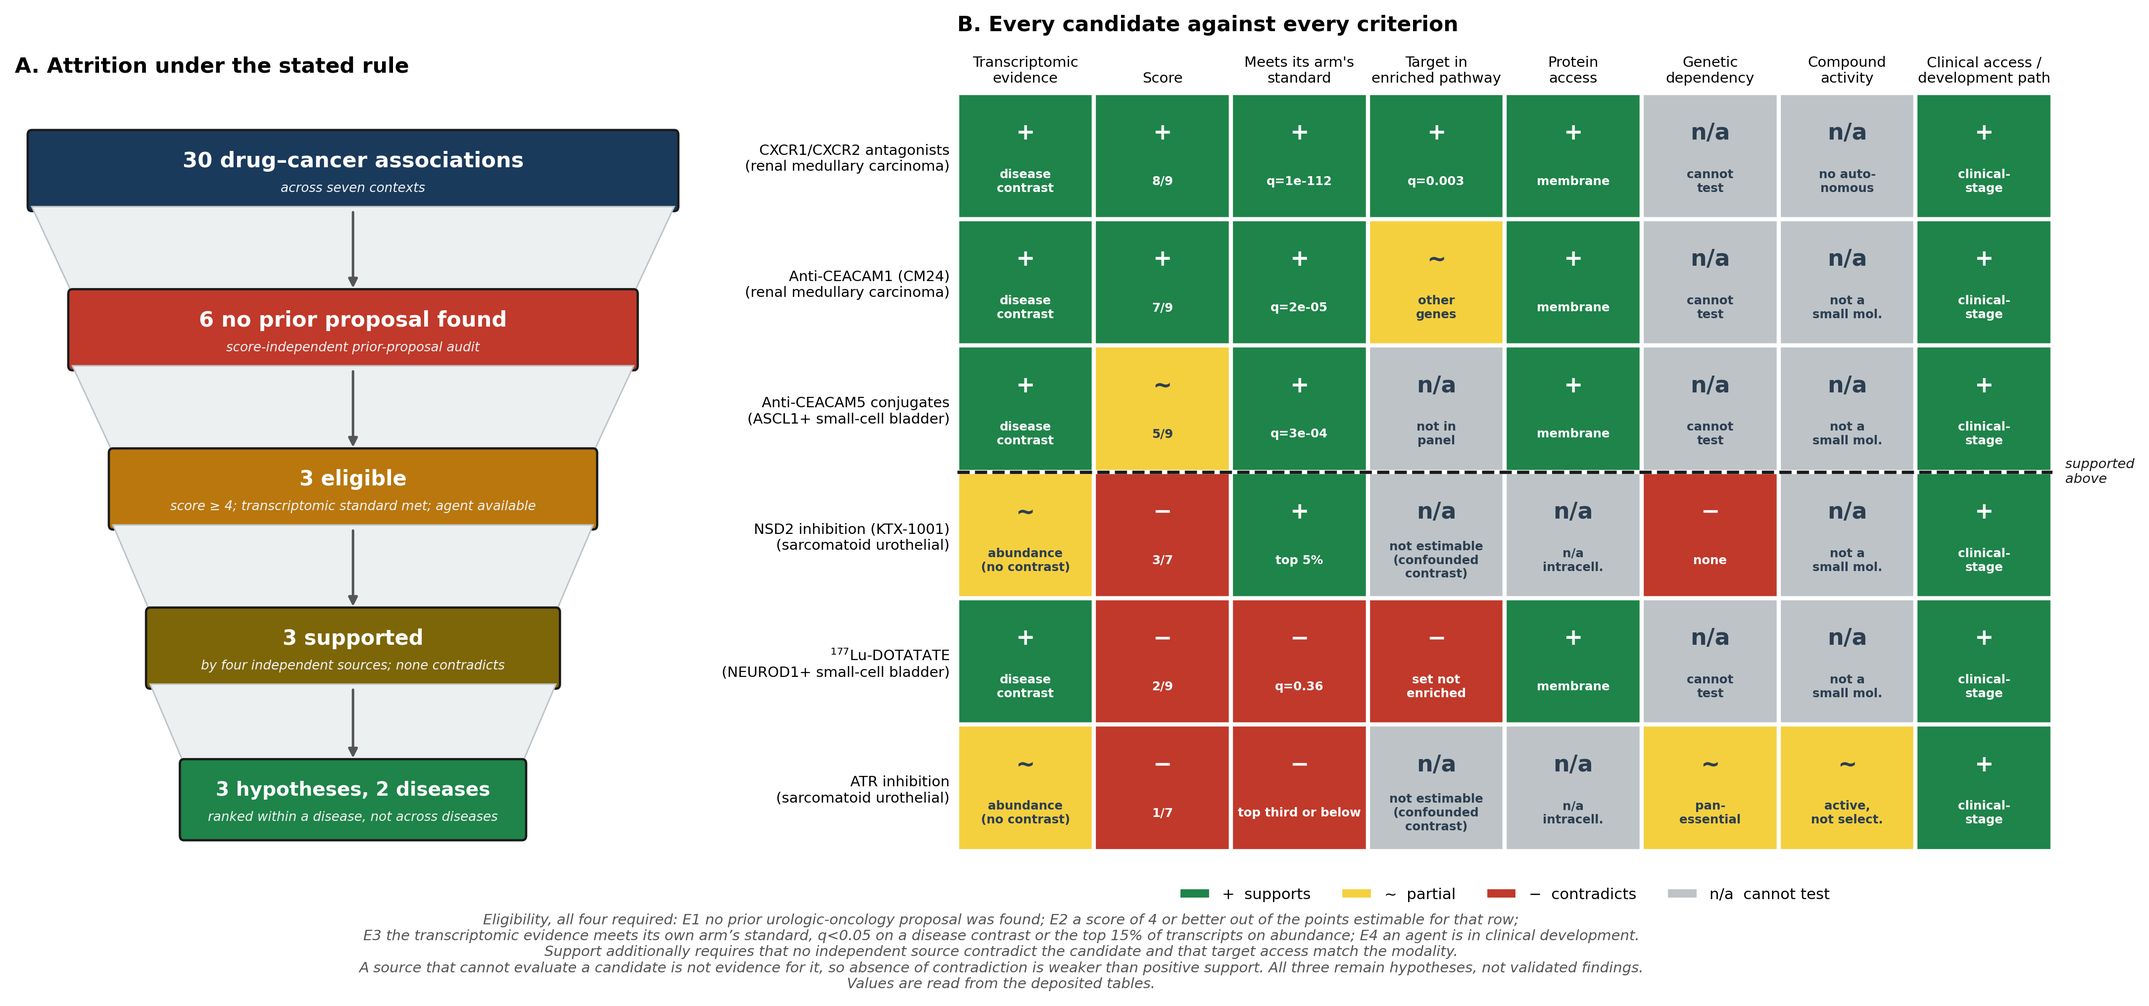
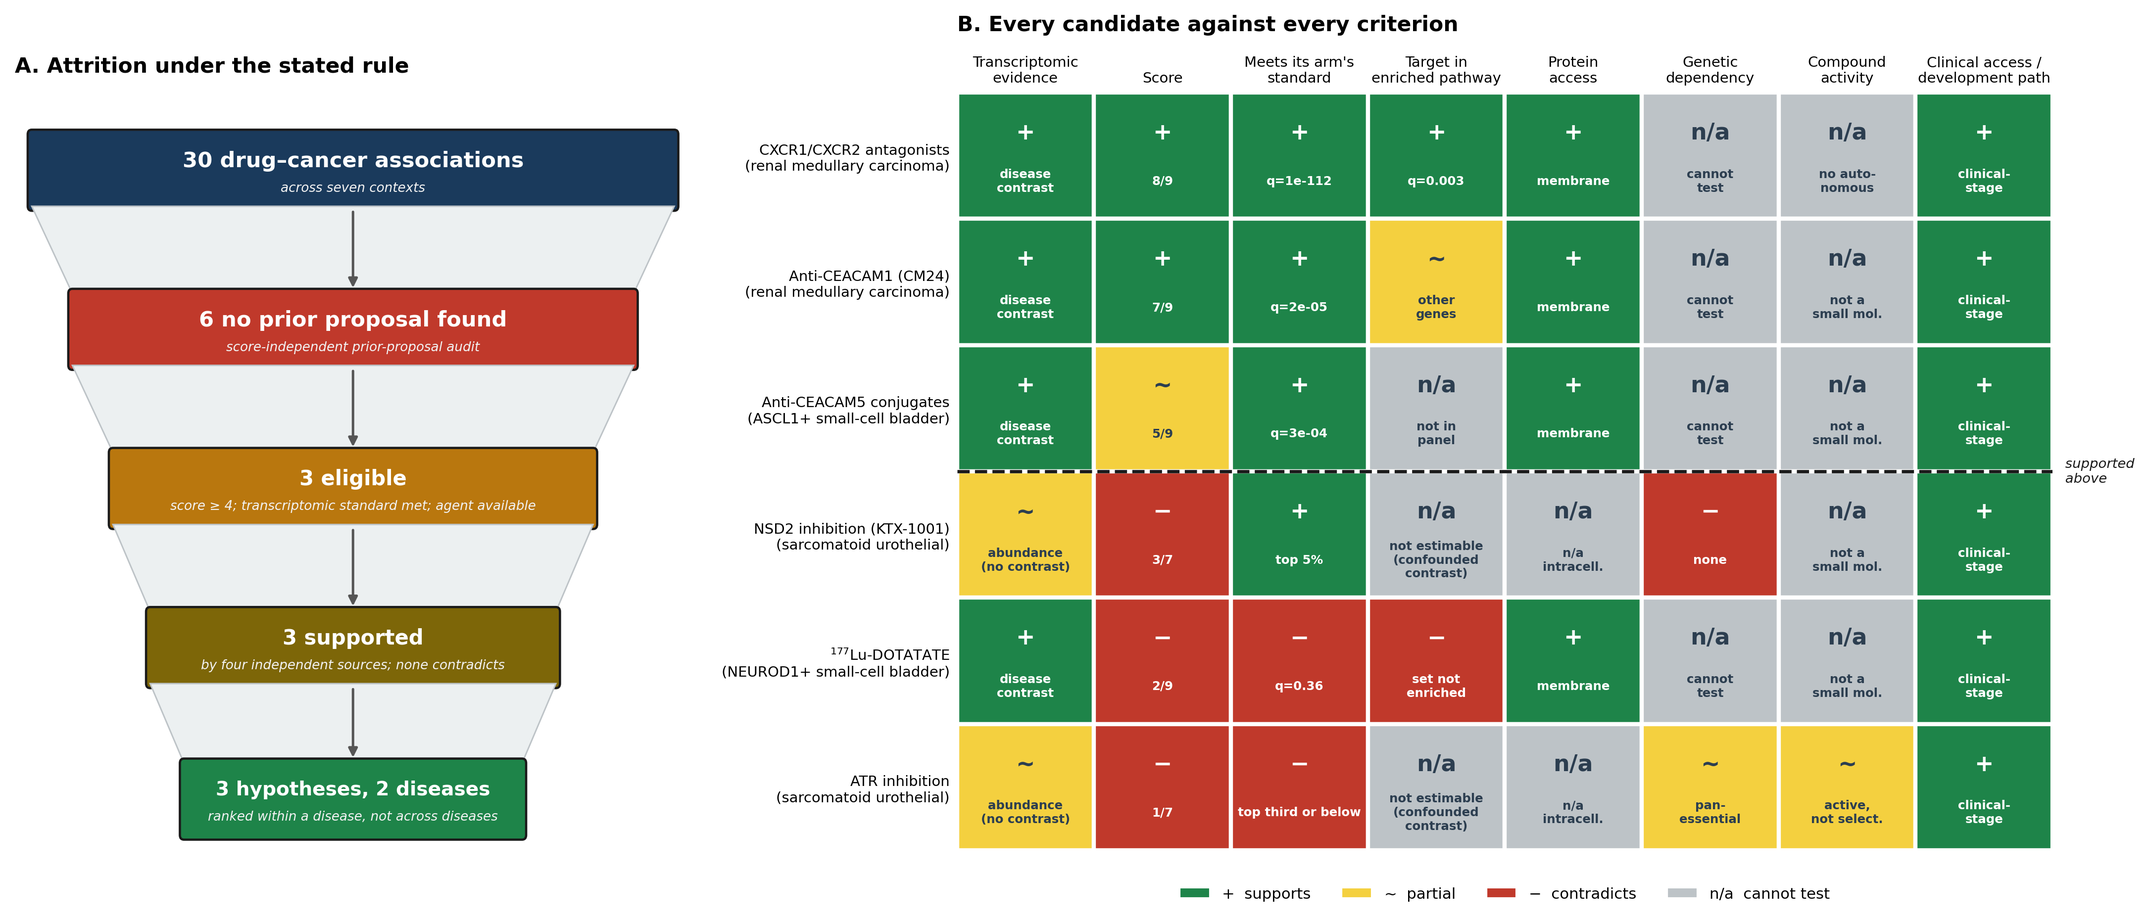
Trim the Discussion; move figure footers into captions; fix Figure 1 jargon
Removed at the author's request:
- the Results section on what the approach could not find. Its DLL3 limitation
  survives as one sentence in the Discussion, which now carries reference 54 so
  the reference list stays fully cited.
- the duplicated cross-disease ranking sentence from the Conclusions; the point
  is still made in Results and the Abstract.

Simplified:
- the refit paragraph, six sentences to two. It compared the results with an
  earlier version of the analysis the reader has never seen; the methodological
  point is kept, the before-and-after narrative is not.
- the design-features and calibration paragraphs combined, 200 words to 114.
- the scoring paragraph, 169 words to 96.
- "any druggable axis absent from it is invisible however strong its expression
  signal" rewritten as "a drug target that none of those sets contains could
  never be nominated, no matter how strongly its gene was expressed".

Added:
- how the positive controls were chosen: by the authors on clinical grounds, as
  aggressive urologic malignancies whose priorities are already documented.
- a limitation stating that TCGA covers the three positive controls but none of
  the four rare cancers, so their alteration frequencies come from smaller
  published series and are less precisely estimated.

Figures:
- Figure 1 still carried "Genomic / context-anchor" and "Score-independent
  PubMed prior-proposal audit", jargon the text had already dropped. Its caption
[…]

diff --git a/code/pipeline/48_build_manuscript_v29.py b/code/pipeline/48_build_manuscript_v29.py
@@ -253,12 +253,13 @@ P('We therefore asked whether public molecular data could be interrogated '
   'engineered. The rule that reduces candidates to a shortlist was written '
   'before it was applied, so every exclusion is attributable to a stated '
   'criterion.')
-P('Three better-studied cancers are included deliberately as positive controls: '
-  'neuroendocrine prostate cancer, muscle-invasive bladder cancer and '
-  'clear cell renal cell carcinoma. Their treatment priorities are already '
-  'documented, so whether the pipeline returns those priorities tells us '
-  'how much weight to give its output in the four rare cancers, where '
-  'nothing is documented to check it against.')
+P('Three better-studied cancers are included deliberately as positive '
+  'controls: neuroendocrine prostate cancer, muscle-invasive bladder cancer '
+  'and clear cell renal cell carcinoma. These were chosen by the authors on '
+  'clinical grounds, as aggressive urologic malignancies whose therapeutic '
+  'priorities are already well studied and documented. Whether the pipeline '
+  'returns those priorities indicates how much weight to give its output in '
+  'the four rare cancers, where nothing is documented to check it against.')
 P(f"What is new here is not any single drug-cancer pair. "
   f"Of the {F['n_associations']} associations reported here, "
   f"{F['n_previously_proposed']} were proposed by other groups first, and "
@@ -630,8 +631,8 @@ P(f"We rank these three within a disease, not between diseases. Two are in "
   f"small-cell bladder cancer and competes with neither. To rank across "
   f"diseases we would have to separate them on something, and the only thing "
   f"available is whether the target happens to appear in one of our eighteen "
-  f"gene sets. What the Approach Could Not Find shows that this reflects which drug classes we chose "
-  f"to include, not which biology matters, so we do not use it that way.")
+  f"gene sets, which reflects which drug classes we chose to include rather "
+  f"than which biology matters, so we do not use it that way.")
 P(f"Within renal medullary carcinoma we would carry CXCR1/CXCR2 blockade "
   f"forward first. It scores {lead['total']}/9. Its chemokine ligands are "
   f"elevated in both patient-derived lines, its target sits in a pathway that "
@@ -663,27 +664,6 @@ P(f"One qualification applies to the renal medullary lead. The dependency and "
   f"settle this one is CXCR1/CXCR2 blockade in an immunocompetent model with an "
   f"intact myeloid compartment, and it remains to be done.")
 
-H('What the Approach Could Not Find', 11.5, 10, level=2)
-P('Applied consistently, the drug-class-first rule that fixed the eighteen gene '
-  'sets exposes one material omission. Delta-like ligand 3 is the canonical '
-  'ASCL1-lineage neuroendocrine surface antigen and the target of tarlatamab, '
-  'a bispecific T-cell engager granted accelerated approval in 2024 and '
-  'traditional approval in 2025 for extensive-stage small-cell lung cancer. '
-  'No pre-specified set in our panel contains it, so no DLL3 '
-  'hypothesis could have been generated for any context, irrespective of the '
-  'data.')
-P('Tested post hoc, DLL3 is elevated in the ASCL1-positive subtype '
-  '(log₂ fold change +1.61) but does not reach significance after '
-  'correction (q = 0.30), and had the Notch pathway been among the pre-specified '
-  'sets it would have been nominally enriched only. DLL3-directed therapy in '
-  'genitourinary small-cell carcinoma has already been proposed in the urologic '
-  'literature (Liao 2024 [54]), so under this study’s standard DLL3 is a '
-  'previously proposed priority the panel failed to recover: a false negative '
-  'of the framework rather than a missed discovery. It is reported here and '
-  'excluded from Table 1, the pre-specified output. The binding constraint is '
-  'the panel’s coverage of druggable biology, not the scoring rules and '
-  'not the data.')
-
 print('results 3.4-3.6 written')
 
 # =====================================================================
@@ -696,59 +676,38 @@ P('In this study, we show that public molecular data can be used to prioritize '
   'to power dedicated biomarker-matched trials in these cancers are not, and '
   'may never be, available, and the associations in Table 1 were assembled '
   'without them.')
-P(f"Refitting the primary data with models matched to how each dataset was "
-  f"built changed the results. Eight associations "
-  f"changed, and two candidates carried forward by the earlier analysis were "
-  f"no longer supported: the somatostatin receptor 2 row, which had been the "
-  f"most clinically developed candidate in the table, and the ATR row. Neither "
-  f"failed because of new data. Both failed because the original per-gene "
-  f"tests ignored replicate structure and batch. An analysis that reused the "
-  f"deposited summary statistics would have carried both forward, and the same "
-  f"risk applies to any public-data prioritization that does not refit what it "
-  f"reuses.")
-P(f"Three design features of the deposited data bound what can be concluded, "
-  f"and none was visible in the summary tables the earlier analysis relied on. "
-  f"The confounding in the sarcomatoid series is the clearest case: "
-  f"{dsn['sarc_chips_sarc_only']} chips carry sarcomatoid samples only and "
-  f"{dsn['sarc_chips_uc_only']} carry conventional samples only, none both, so "
-  f"a model including chip is not estimable and those five rows are unscored. "
-  f"The clear cell renal series "
-  f"contains {dsn['ccrcc_samples']} tumors and no normal tissue, so those rows "
-  f"are scored on absolute expression rather than a disease contrast, and the "
-  f"metastatic contrast the series does support yields "
-  f"{dsn['ccrcc_q05_genes']} gene at q < 0.05. The hereditary "
-  f"leiomyomatosis series, used previously as though it spoke to clear cell "
-  f"disease, is a different disease, reported here as adjacent-disease "
-  f"mechanistic context only.")
-P('The recovery of eighteen previously-proposed priorities is calibration, not '
-  'independent validation: prior knowledge entered the pathway panel, the drug '
-  'curation, the literature dimension and the choice of representative agent, so '
-  'the framework and the literature are not independent. What it establishes '
-  'is that a pipeline blind to the prior-proposal classifications during '
-  'scoring recovers established priorities in well-characterized disease. That '
-  'is a positive control, not a measurement of sensitivity or precision.')
-P(f"The scoring dimensions are partially overlapping, and the composite should "
-  f"be read as a way of ordering candidates rather than as a measurement. "
-  f"The transcriptomic "
-  f"and pathway dimensions share an input, and in several rows the genomic "
-  f"score reflects an alteration that defines the disease rather than one in "
-  f"the "
-  f"nominated target: renal medullary carcinoma is near-universally "
-  f"SMARCB1-deficient, which says nothing specific about CXCR1 or CXCR2. That "
-  f"score contributes materially to the ordering. In the "
-  f"sensitivity analysis (Supplementary Table S2), which orders all scored "
-  f"associations numerically to test the score architecture and not to rank "
-  f"hypotheses across diseases, the renal medullary candidate falls from "
-  f"first to {ordinal(s2_lead_no_anchor)} when the genomic score is "
-  f"removed and to {ordinal(s2_lead_no_pathway)} when the pathway dimension "
-  f"is dropped, "
-  f"while it remains first when the literature dimension is removed and when the "
-  f"pathway dimension is required to contain the target itself. Part of the "
-  f"ordering is therefore carried by the architecture rather than by "
-  f"target-specific biology, and the shortlist should be read with that in "
-  f"mind.")
+P(f"Two candidates were not supported once replicate structure and batch "
+  f"were included in the models: the somatostatin receptor 2 row, which had "
+  f"been the most clinically developed candidate in the table, and the ATR "
+  f"row. An analysis that reused the deposited summary statistics instead of "
+  f"refitting the primary data would have carried both forward.")
+P(f"Two things bound what these results mean. Recovery of the "
+  f"{F['n_previously_proposed']} previously proposed priorities is a positive "
+  f"control rather than independent validation, because prior knowledge "
+  f"entered the pathway panel, the drug curation and the choice of "
+  f"representative agent; it shows the pipeline returns established priorities "
+  f"in well-characterized disease, but it does not measure sensitivity or "
+  f"precision. Separately, three features of the deposited data limited what "
+  f"could be analyzed: the sarcomatoid series confounds histology with array "
+  f"chip, the clear cell renal series contains no normal tissue, and the "
+  f"hereditary leiomyomatosis series is a different disease and is reported "
+  f"here as adjacent-disease context only. Each is described where it arises "
+  f"and detailed in Supplementary Table S3.")
+P(f"The four score dimensions overlap, so the total orders candidates rather "
+  f"than measuring them. The transcriptomic and pathway scores share an input, "
+  f"and in several rows the genomic score reflects an alteration that defines "
+  f"the disease rather than one in the nominated target: renal medullary "
+  f"carcinoma is almost always SMARCB1-deficient, which says nothing about "
+  f"CXCR1 or CXCR2. Removing that score in the sensitivity analysis moves the "
+  f"renal medullary candidate from first to "
+  f"{ordinal(s2_lead_no_anchor)} (Supplementary Table S2), so part of the "
+  f"ordering comes from how the score is built rather than from the biology of "
+  f"the target.")
 P(f"Our study has limitations, and most are bounded by what is public. "
-  f"Rare-disease sample "
+  f"The Cancer Genome Atlas covers the three positive controls but none of "
+  f"the four rare cancers, so genomic evidence for the rare cancers came "
+  f"from smaller published series and their alteration frequencies are less "
+  f"precisely estimated than those of the controls. Rare-disease sample "
   f"sizes are modest. Enrichment was corrected within context across eighteen "
   f"sets and not across contexts or downstream comparisons. The transcriptomic "
   f"dimension is not uniformly transcriptomic: where a target is absent from its "
@@ -759,9 +718,12 @@ P(f"Our study has limitations, and most are bounded by what is public. "
   f"across both was required. Finally, the urologic-only novelty standard is "
   f"deliberately conservative and says nothing about biological precedence "
   f"outside urology.")
-P('One further limitation follows from the design. Because candidate generation '
-  'is bounded by the pre-specified panel, any druggable axis absent from it is '
-  'invisible however strong its expression signal. DLL3 is the clearest case and '
+P('One further limitation follows from the design. Candidates could only be '
+  'drawn from the eighteen gene sets we specified in advance, so a drug target '
+  'that none of those sets contains could never be nominated, no matter how '
+  'strongly its gene was expressed. DLL3, the target of tarlatamab '
+  'and already proposed in genitourinary small-cell carcinoma [54], is the '
+  'clearest case, and '
   'proteasome inhibition in renal medullary carcinoma [57] a second, so panel '
   'coverage should be re-audited against newly approved drug classes before '
   'reuse. Resolution is also bounded by what is deposited: several variants of '
@@ -786,9 +748,7 @@ P(f"In conclusion, we scored {F['n_associations']} drug-cancer associations "
   f"pair but a way of generating, calibrating and challenging drug hypotheses "
   f"in cancers too rare for a trial, in a form that others can audit and "
   f"contradict. Within renal medullary carcinoma we would carry CXCR1/CXCR2 "
-  f"blockade ahead of anti-CEACAM1. We do not rank the renal medullary "
-  f"candidates against the small-cell bladder candidate, because they are in "
-  f"different diseases and nothing in these data separates them. All three "
+  f"blockade ahead of anti-CEACAM1. All three "
   f"need "
   f"experimental validation in their own disease, and broader progress would "
   f"benefit from wider tumor sequencing and from histology-labeled, "
@@ -831,7 +791,7 @@ P('All datasets used are publicly available without restriction. Genomic '
 FIGURES = [
     ('Figure1_pipeline.png', 6.5,
      'Figure 1. The pipeline, from context definition to the supported '
-     'hypotheses. Steps 1 to 6 build the association table: genomic or '
+     'hypotheses. Steps 1 to 6 build the association table: genomic '
      'input from The '
      'Cancer Genome Atlas for the three positive controls and from published '
      'series for the four rare or variant contexts; differential expression '
@@ -879,8 +839,15 @@ FIGURES = [
      'available enrichment derives from the confounded comparison. Enrichment '
      'is credited only where the target is itself a member of the enriched '
      'pathway, since an enrichment driven by other genes is not evidence for '
-     'that target. A source that cannot evaluate a candidate is not evidence '
-     'for it, so absence of contradiction is weaker than positive support.'),
+     'that target. Eligibility required all four of: E1, no prior '
+     'urologic-oncology proposal was found; E2, a score of 4 or better out '
+     'of the points estimable for that row; E3, transcriptomic evidence strong '
+     'enough for the kind it rests on, q < 0.05 on a disease contrast or the '
+     'top 15% of transcripts on abundance; and E4, an agent in clinical '
+     'development. Support additionally required that no independent source '
+     'contradict the candidate and that target access match the modality. A '
+     'source that cannot evaluate a candidate is not evidence for it, so '
+     'absence of contradiction is weaker than positive support.'),
 ]
 for name, width, legend in FIGURES:
     path = FIG / name

diff --git a/code/pipeline/49_audit_manuscript_v29.py b/code/pipeline/49_audit_manuscript_v29.py
@@ -68,8 +68,8 @@ check('one condensed table in the main text', len(doc.tables) == 1)
 # JCO CCI uses unnumbered title-case subsection headings
 RES_SUBS = ('The Association Table', 'Positive Controls',
             'Rare and Variant Cancers', 'Independent Evidence',
-            'Supported Hypotheses', 'What the Approach Could Not Find')
-check('six Results subsections', all(h in paras for h in RES_SUBS),
+            'Supported Hypotheses')
+check('five Results subsections', all(h in paras for h in RES_SUBS),
       str([h for h in RES_SUBS if h not in paras]))
 check('Discussion closes with a conclusion',
       'In conclusion, we scored' in text)
@@ -191,6 +191,8 @@ print('\n4. NEW LIMITATIONS ARE STATED')
 check('sarcomatoid batch confounding disclosed',
       'share no chip' in text or 'confounded' in text)
 check('ccRCC has no normal tissue disclosed', 'no normal tissue' in text)
+check('TCGA coverage limitation stated',
+      'covers the three positive controls but none of' in text)
 check('HLRCC demoted to adjacent disease', 'adjacent-disease' in text)
 check('penile technical replicates disclosed',
       f"{F['design']['pscc_normal_donors']} donors" in text)
@@ -258,8 +260,10 @@ check('PRISM no longer claims absence of off-target cytotoxicity',
       'absence of off-target cytotoxicity' not in text)
 check('normal-tissue RNA not used as a therapeutic-window claim',
       'not a therapeutic-window' in text)
-check('tarlatamab approval history stated',
-      'accelerated approval' in text and 'traditional approval' in text)
+# the DLL3 section that carried tarlatamab's approval dates was removed; the
+# limitation it supported is now one sentence in the Discussion
+check('DLL3 panel-coverage limitation retained',
+      'DLL3' in text and 'panel coverage should be re-audited' in text)
 check('sacituzumab withdrawal month corrected', 'November 2024' in both)
 check('LINCS comparison count explained', 'the eight comparisons' in text)
 # published reference titles keep their own spelling, so test the prose only
@@ -301,10 +305,14 @@ check('within-disease priority named, not a global lead',
       or 'the one to carry forward first' in text)
 # the Abstract no longer carries the ranking caveat; Results 3.5 and the
 # Conclusions do, which is where a reader acts on it
+# the point is made in Results and in the Abstract; the Conclusions
+# restatement was removed as duplicative
 check('no cross-disease ranking claimed',
       'within a disease, not between diseases' in text
-      and 'we do not rank the renal medullary candidates against the '
-          'small-cell bladder candidate' in text.lower())
+      and 'ranked within a disease but not across diseases' in text.lower()
+      or 'within a disease, not between diseases' in text
+      and 'to rank across diseases we would have to separate them'
+      in text.lower())
 check('three survivors across two diseases stated',
       'across 2 diseases' in text or 'across two diseases' in text
       or f"{F['n_survivor_contexts']} diseases" in text)

diff --git a/code/pipeline/12_generate_figures.py b/code/pipeline/12_generate_figures.py
@@ -119,12 +119,12 @@ def generate_figure1():
          '#f4cccc', '#922b21'),
         (1.98, 'Step 5',
          '9-point Molecular Prioritization Score',
-         'Genomic / context-anchor (0–3)  +  Transcriptomic (0–3)  +  '
+         'Genomic (0–3)  +  Transcriptomic (0–3)  +  '
          'KEGG (0–2)  +  Literature (0–1)',
          '#ead1dc', '#6c3483'),
         (1.10, 'Step 6',
-         'Score-independent PubMed prior-proposal audit',
-         'Urologic-oncology-literature-only novelty classification '
+         'PubMed search for prior proposals',
+         'run after scoring; urologic-oncology literature only, '
          'per drug–cancer row',
          '#d0e0e3', '#1b5e6b'),
     ]
@@ -185,12 +185,6 @@ def generate_figure1():
     # from beneath that column rather than from the centre of the table box.
     ax.annotate('', xy=(4.85, -0.36), xytext=(4.85, 0.05),
                 arrowprops=dict(arrowstyle='->', lw=1.8, color='#c00000'))
-    ax.text(5.05, -0.16, '6 with no prior urologic-oncology proposal found',
-            ha='left', va='center', fontsize=7.4, style='italic',
-            color='#c00000')
-    ax.text(5.05, -0.27, '3 supported by the independent sources, in 2 diseases',
-            ha='left', va='center', fontsize=7.0, style='italic', color='#7d6608')
-
     ax.add_patch(FancyBboxPatch((1.20, -1.31), 8.60, 0.93,
                                  boxstyle='round,pad=0.04',
                                  ec='#1e8449', fc='#d4efdf', linewidth=1.1))

diff --git a/code/pipeline/42_figure5_selection_v29.py b/code/pipeline/42_figure5_selection_v29.py
@@ -210,14 +210,6 @@ labels = ['+  supports', '~  partial', '\u2212  contradicts', 'n/a  cannot test'
 axB.legend(handles, labels, loc='upper center', bbox_to_anchor=(0.5, -0.03),
            ncol=4, frameon=False, fontsize=7.4)
 
-fig.text(0.5, 0.035,
-         'Eligibility, all four required: E1 no prior urologic-oncology proposal was found; E2 a score of 4 or better out of the points estimable for that row;\n'
-         'E3 the transcriptomic evidence meets its own arm\u2019s standard, q<0.05 on a disease contrast or the top 15% of transcripts on abundance; E4 an agent is in clinical development.\n'
-         'Support additionally requires that no independent source contradict the candidate and that target access match the modality.\n'
-         'A source that cannot evaluate a candidate is not evidence for it, so absence of contradiction is weaker than positive support. All three remain hypotheses, not validated findings.\n'
-         'Values are read from the deposited tables.',
-         ha='center', fontsize=7.0, style='italic', color='#555')
-
 out = FIG / 'Figure4_candidate_selection.png'
 plt.savefig(out, bbox_inches='tight')
 plt.close()
